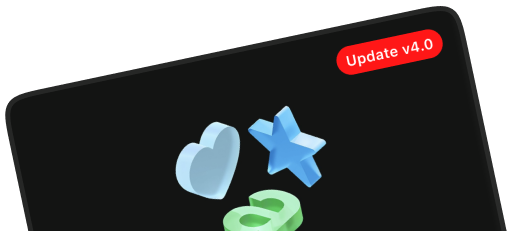
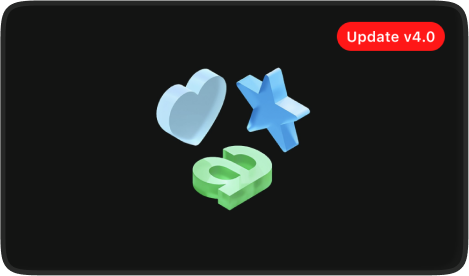
update dans l'animation des cards au survol

diff --git a/index.html b/index.html
@@ -72,12 +72,36 @@
       .fade-in {
         animation: fade-in 1s forwards;
       }
-      .group:hover .rotate-reset-1 {
-        transform: rotate(0deg);
+      /* Initial state with rotation */
+      .card-1 {
+        z-index: 3;
       }
-      .group:hover .rotate-reset-2 {
-        transform: rotate(0deg);
-        margin-top: 6px;
+      .card-2 {
+        z-index: 2;
+      }
+      .card-3 {
+        z-index: 1;
+      }
+
+      .group:has(:hover) .card-1 {
+        transform: rotate(0deg) translateY(-70px);
+        z-index: 1;
+      }
+
+      .group:has(:hover) .card-2 {
+        transform: rotate(0deg) translateY(-60px);
+        z-index: 2;
+      }
+
+      .group:has(:hover) .card-3 {
+        transform: rotate(0deg) translateY(-50px);
+        z-index: 1;
+      }
+
+      .card-1,
+      .card-2,
+      .card-3 {
+        transition: transform 0.5s ease-in-out;
       }
     </style>
   </head>
@@ -373,17 +397,17 @@
             <img
               src="./files/MaterialYou.png"
               alt="Material You"
-              class="w-52 sm:w-64 -rotate-[12deg] transition-transform duration-500 rotate-reset-1"
+              class="w-52 sm:w-60 transform -rotate-[12deg] translate-y-14 sm:translate-y-28 transition-all duration-500 ease-in-out card-1"
             />
             <img
               src="./files/iOS16.png"
               alt="iOS 16"
-              class="w-52 sm:w-64 relative -my-14 sm:-my-20 z-2 rotate-[12deg] transition-all duration-500 rotate-reset-2"
+              class="w-52 sm:w-60 transform rotate-[12deg] relative z-20 translate-y-2 sm:translate-y-14 transition-all duration-500 ease-in-out card-2"
             />
             <img
               src="./files/BlackCard.png"
               alt="Black Card"
-              class="w-60 ml-4 sm:w-72"
+              class="w-52 sm:w-60 transform -rotate-[12deg] relative z-10 -translate-y-8 sm:translate-y-2 transition-all duration-500 ease-in-out card-3"
             />
           </div>
         </div>

diff --git a/script.js b/script.js
@@ -30,7 +30,7 @@ tailwind.config = {
       },
 
       gridTemplateRows: {
-        "10-fixed": "repeat(10, 170px)",
+        "10-fixed": "repeat(10, 180px)",
         "5-fixed": "repeat(5, 230px)",
       },
       screens: {
